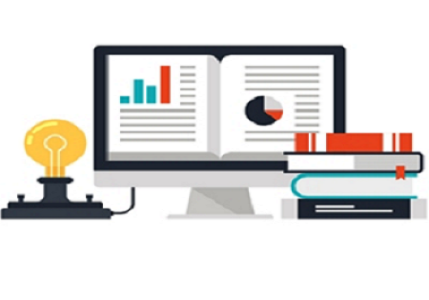
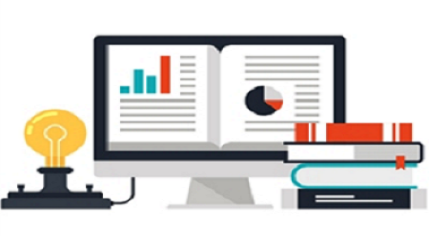
Image fix
Image fix

diff --git a/index.html b/index.html
@@ -240,7 +240,7 @@
                         <!-- Big Image Left -->
                         <div class="col-md-6">
 <!--                            <div class="img-block" style="background-image:url('images/about.png');height: 300px;width: 500px;"></div>-->
-                            <img src="images/about.png" style="height: 350px;">
+                            <img src="images/about.png" style="width: 100%;">
                         </div>
                         <!-- Right Col: Highlight Text+Image -->
                         <div class="col-md-6">
